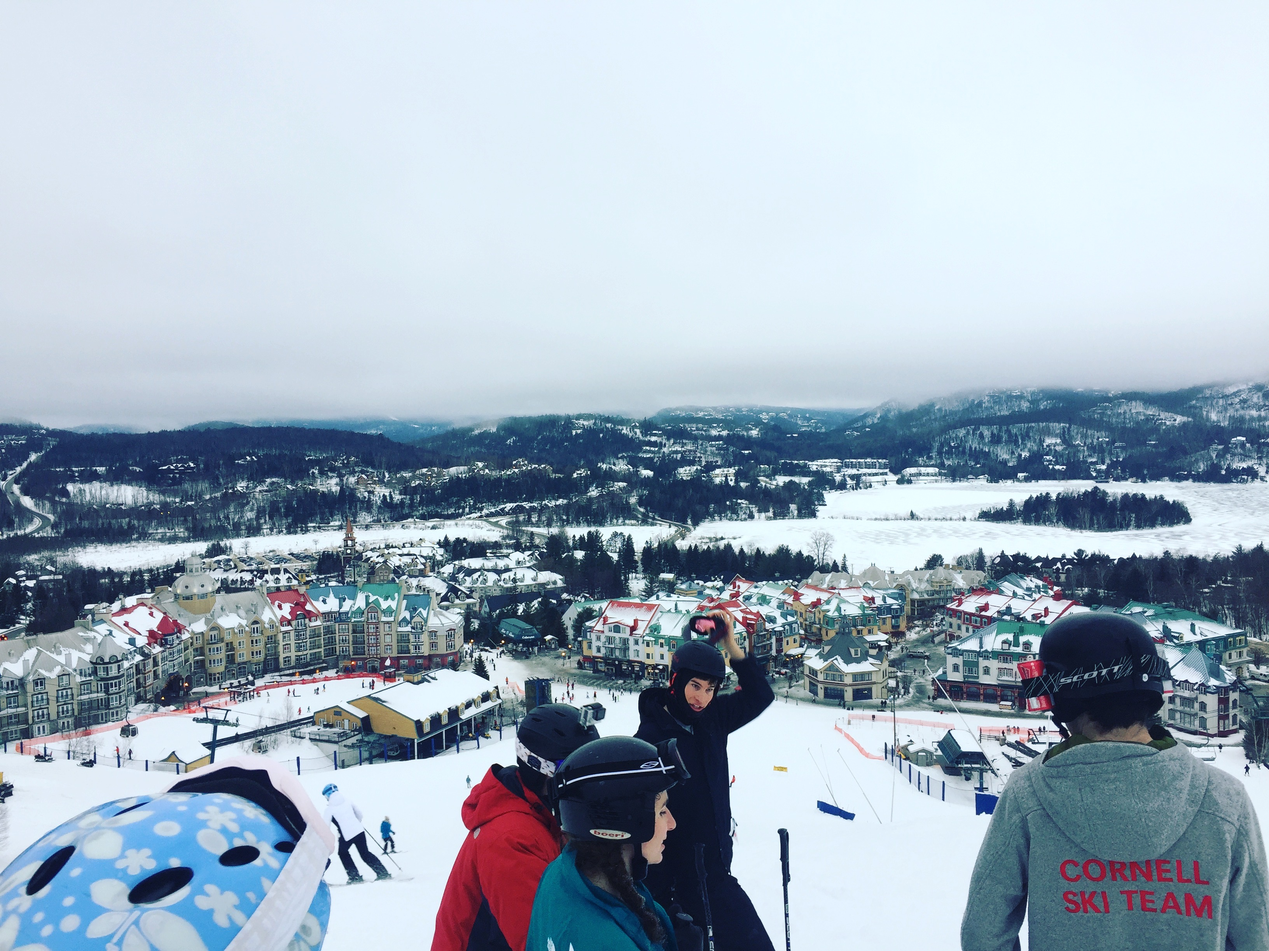
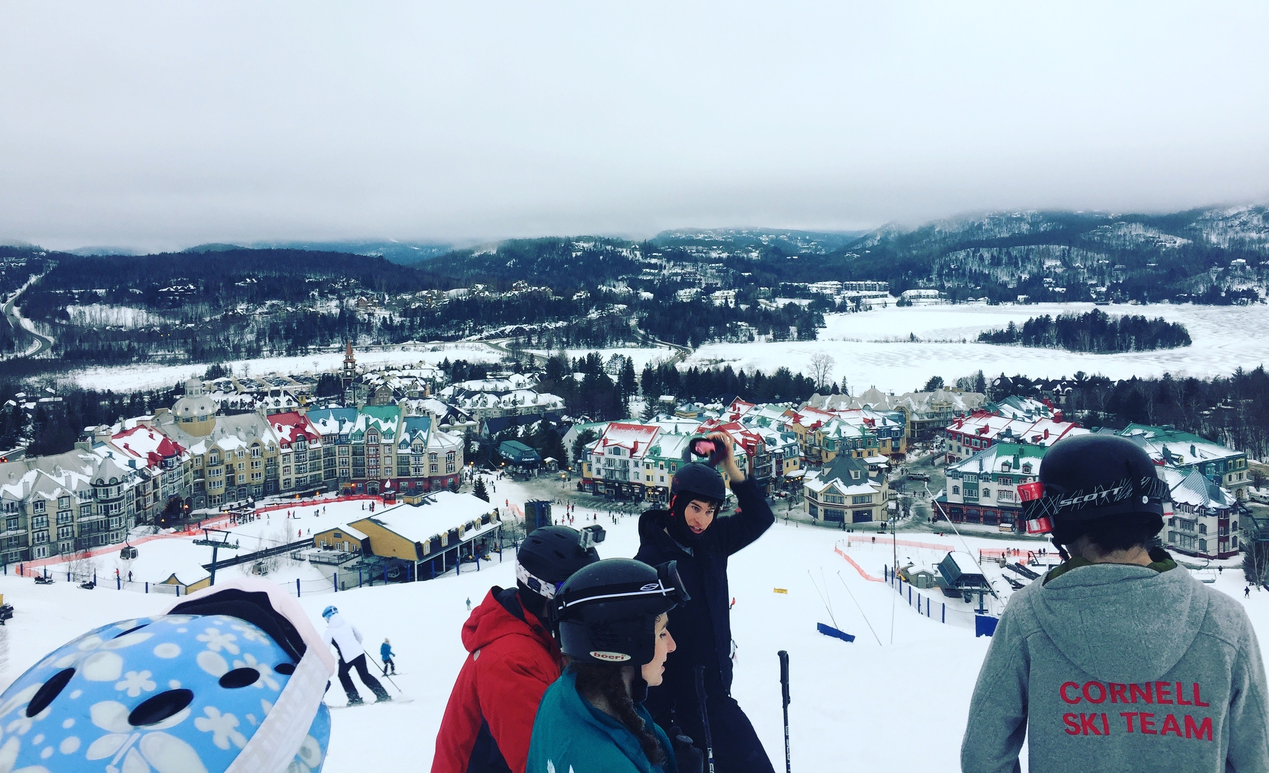
Being working hero image slideshow

diff --git a/src/components/final/Header.tsx b/src/components/final/Header.tsx
@@ -1,7 +1,7 @@
 import Responsive from '../super-comps/Responsive';
 import NavBar from './NavBar';
 
-const IMG_RATIO = 0.6;
+const IMG_RATIO = 0.5;
 
 const NAV_LINKS = ['Club News', 'Trips', 'Equipment', 'About Us', 'Contact Us'];
 const ON_CLICKS = [
@@ -13,7 +13,7 @@ const ON_CLICKS = [
 ];
 
 type HeroImageProps = {
-    path: string;
+    path: string[];
 };
 
 export default class HeroHeader extends Responsive<HeroImageProps> {
@@ -22,13 +22,27 @@ export default class HeroHeader extends Responsive<HeroImageProps> {
     constructor(props: HeroImageProps) {
         super(props);
         this.props = props;
+
+        const interval = window.setInterval(this.switchImage, 5000);
+
+        this.state = {
+            pointer: 0
+        };
     }
+
+    switchImage = () => {
+        const prevPointer = this.state.pointer;
+        const maxPointer = this.props.path.length;
+        this.setState({
+            pointer: (prevPointer + 1) % maxPointer
+        });
+    };
 
     imgStyle = () => {
         const st = this.state;
         return {
-            backgroundImage: `url(${this.props.path})`,
-            backgroundPosition: 'center center',
+            backgroundImage: `url(${this.props.path[st.pointer]})`,
+            backgroundPosition: 'center',
             backgroundSize: 'cover',
             width: `${st.winWidth}px`,
             height: `${st.winWidth * IMG_RATIO}px`
@@ -36,7 +50,6 @@ export default class HeroHeader extends Responsive<HeroImageProps> {
     };
 
     render = () => {
-        // return <img src={this.props.path} style={this.imgStyle()} />;
         return (
             <div style={this.imgStyle()}>
                 <NavBar navLinks={NAV_LINKS} onClicks={ON_CLICKS} />

diff --git a/src/index.tsx b/src/index.tsx
@@ -3,6 +3,8 @@ import ReactDOM from 'react-dom';
 import './index.css';
 import reportWebVitals from './reportWebVitals';
 import Hero1 from './assets/hero1.jpg';
+import Hero2 from './assets/hero2.jpg';
+import Hero3 from './assets/hero3.jpg';
 
 /** Components */
 import Header from './components/final/Header';
@@ -18,7 +20,7 @@ const navFunctions = [
 
 ReactDOM.render(
     <React.StrictMode>
-        <Header path={Hero1} />
+        <Header path={[Hero1, Hero2, Hero3]} />
         <Betski />
     </React.StrictMode>,
     document.getElementById('root')

diff --git a/src/components/super-comps/Responsive.tsx b/src/components/super-comps/Responsive.tsx
@@ -5,7 +5,9 @@ const INIT_WINDOW_WIDTH = 0;
 export default class Responsive<T> extends React.Component<T, any> {
     constructor(props: T) {
         super(props);
-        this.state = { winWidth: INIT_WINDOW_WIDTH };
+        this.state = {
+            winWidth: INIT_WINDOW_WIDTH
+        };
     }
 
     componentDidMount = () => {

diff --git a/src/components/final/NavBar.tsx b/src/components/final/NavBar.tsx
@@ -6,7 +6,7 @@ import React from 'react';
 // CURRENT VALUES ADDED TO NAVBAR
 const NAVBAR_WIDTH = '100%';
 const NAVBAR_TOP = '0';
-const NAVBAR_SHADOW = '0 2px 3px #C8C8C8';
+const NAVBAR_SHADOW = '0 1px 1px #666';
 
 type NavBarProps = {
     navLinks: string[];

diff --git a/src/components/complex/EnderBar.tsx b/src/components/complex/EnderBar.tsx
@@ -7,7 +7,7 @@ import React from 'react';
 import { FaFacebook } from 'react-icons/fa';
 import { RiInstagramLine } from 'react-icons/ri';
 
-const BAR_COL = '#777';
+const BAR_COL = '#636363';
 const BAR_WIDTH = '25%';
 
 const INNER_HEIGHT = '100%';
